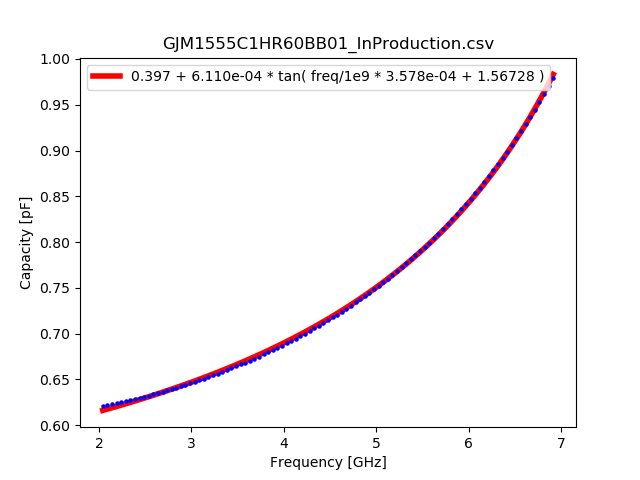
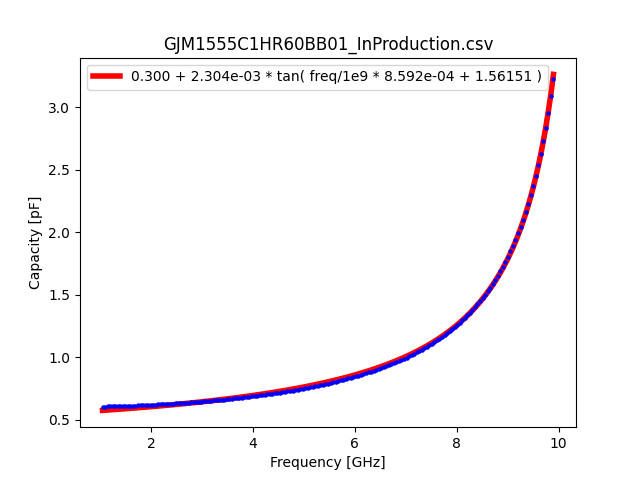
0.6 0.7pF

diff --git a/README.md b/README.md
@@ -6,3 +6,5 @@ note : use only simsurfing data
 | label | value | func |
 | ---   | ---   | --- |
 | [GJM1555C1HR50BB01_InProduction.csv](img/GJM1555C1HR50BB01_InProduction.png) | 0.5pF | `0.288 + 2.276e-03 * tan( freq/1e9 * 1.095e-03 + 1.55815 )` |
+| [GJM1555C1HR60BB01_InProduction.csv](img/GJM1555C1HR60BB01_InProduction.png) | 0.6pF | `0.300 + 2.304e-03 * tan( freq/1e9 * 8.592e-04 + 1.56151 )` |
+| [GJM1555C1HR70BB01_InProduction.csv](img/GJM1555C1HR70BB01_InProduction.png) | 0.7pF | `0.268 + 3.050e-02 * tan( freq/1e9 * 9.632e-03 + 1.47910 )` |
